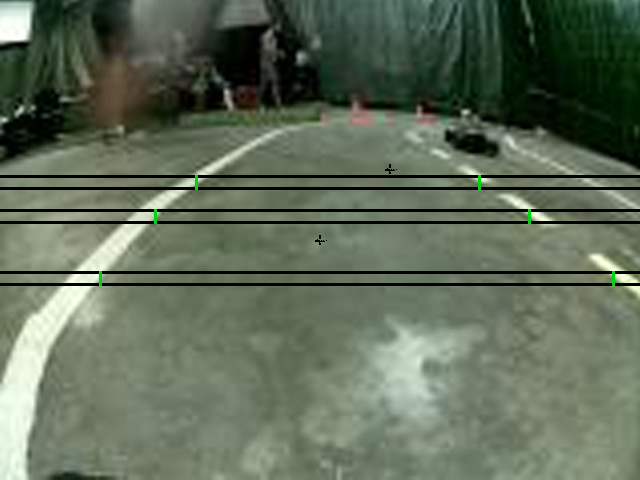
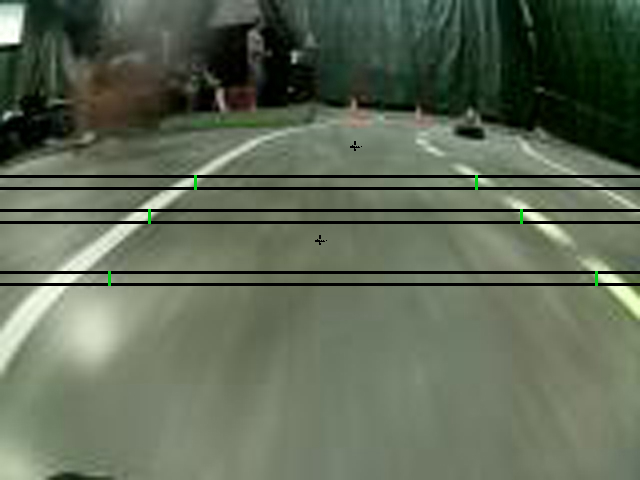
v1.1.3 Added data folder with images

diff --git a/tank-pi/sites/tracktest/routes/wrappers.js b/tank-pi/sites/tracktest/routes/wrappers.js
@@ -4,7 +4,7 @@ var fs =          require('fs');
 var Jimp =        require('jimp');
 var logistics =   require('./logistics');
 var prototypes =  require('./prototypes');
-var serial =      require('./serial')
+var serial =      require('./serial');
 
 /*
 ** These are a series of async.waterfall()—compatible wrappers for the functions
@@ -21,7 +21,31 @@ exports.initFindEdgesGraphic = function(callback) {
 } // initFindEdgesGraphic()
 
 exports.readSnapshot = function(callback) {
-   try {
+  if (config.useDataFolder) {
+    if (logistics.trackDataIndex == undefined || logistics.trackDataIndex == config.dataFolderCount + 1) {
+      logistics.trackDataIndex = 1;
+    }
+    debug('readSnapshot() using data folder');
+    try {
+      path = config.dataFolder + '/' + logistics.trackDataIndex.toString() + '.jpg';
+      debug(path);
+      Jimp.read(path, (errRead, imgOut) => {
+        if (errRead) {console.error('readSnapshot(): ' + errRead); callback(errRead); return;}
+        logistics.sampleX =   0;
+        logistics.imgWidth =  imgOut.bitmap.width;
+        logistics.imgHeight = imgOut.bitmap.height;
+        logistics.sampleY1 =  parseInt(logistics.imgHeight * config.firstY);
+        logistics.sampleY2 =  parseInt(logistics.imgHeight * config.secondY);
+        logistics.sampleY3 =  parseInt(logistics.imgHeight * config.thirdY);
+        callback(null, imgOut);
+        logistics.trackDataIndex++;
+        return;
+      });
+    } catch(err) {console.error('readSnapshot() -> catch(): ' + err); callback(err); return;}
+  } else {
+    // Read it from the static image, as saved into ./public/images/snapshot.jpg
+    debug('If data folder is turned on, we should not see this.');
+    try {
       Jimp.read(config.fileSnapshot, (errRead, imgOut) => {
         if (errRead) {console.error('readSnapshot(): ' + errRead); callback(errRead); return;}
         logistics.sampleX =   0;
@@ -31,8 +55,10 @@ exports.readSnapshot = function(callback) {
         logistics.sampleY2 =  parseInt(logistics.imgHeight * config.secondY);
         logistics.sampleY3 =  parseInt(logistics.imgHeight * config.thirdY);
         callback(null, imgOut);
+        return;
       });
     } catch(err) {console.error('readSnapshot() -> catch(): ' + err); callback(err); return;}
+  }
 } // readSnapshot()
 
 exports.markCenter = function(imgIn, callback) {
@@ -84,10 +110,12 @@ exports.markThirdSample = function(imgIn, callback) {
       debug('---Trend [' + logistics.trend + '] over sanity check [' + config.trendSanityCheck + '], trying again---');
       debug('nLeft: ' + logistics.nLeft1 + '/' + logistics.nLeft2 + '/' + logistics.nLeft3 + ', nRight: ' + logistics.nRight1 + '/' + logistics.nRight2 + '/' + logistics.nRight3);
       logistics.leftGreatSlopeSegment =    parseInt(Math.atan(Math.abs(logistics.nLeft1 - logistics.nLeft3) / parseInt(logistics.imgHeight * (config.firstY - config.thirdY))) * 180 / Math.PI);
-      logistics.rightGreatSlopeSegment =   parseInt(Math.atan(Math.abs(logistics.nRight1 - logistics.nRight3) / parseInt(logistics.imgHeight * (config.firstY - config.thirdY))) * 180 / Math.PI);
+      logistics.rightGreatSlopeSegment =   parseInt(Math.atan(Math.abs(logistics.nRight1 - logistics.nRight3) / parseInt(logistics.imgHeight * (config.thirdY - config.firstY))) * 180 / Math.PI);
       debug('slopeGreatLeft: ' + logistics.leftGreatSlopeSegment + ' and slopeGreatRight: ' + logistics.rightGreatSlopeSegment);
       if (logistics.leftGreatSlopeSegment && logistics.rightGreatSlopeSegment) {
-        logistics.trend = 90 - (Math.abs(logistics.leftGreatSlopeSegment) < Math.abs(logistics.rightGreatSlopeSegment) ? logistics.leftGreatSlopeSegment : logistics.rightGreatSlopeSegment);
+        logistics.trend = 90 - (Math.abs(logistics.leftGreatSlopeSegment) < Math.abs(logistics.rightGreatSlopeSegment) ?
+          ((logistics.rightGreatSlopeSegment < 0) ? parseInt(logistics.leftGreatSlopeSegment / 2) : logistics.leftGreatSlopeSegment) :
+          logistics.rightGreatSlopeSegment);
       } else {
         if (isNaN(logistics.trend)) {
           debug('---Trend [' + logistics.trend + '] == NaN, trying again---');

diff --git a/tank-pi/sites/tracktest/routes/prototypes.js b/tank-pi/sites/tracktest/routes/prototypes.js
@@ -38,9 +38,8 @@ var logistics =   require('./logistics');
   }; // markCenter()
 
   Jimp.prototype.markDirection = function(cb) {
-    // Unsure if this should be (90-trend) or half of this angle. Also unsure of whether or not I should be subtracting this from 90.
-    //debug('Trend: ' + parseInt((90 - logistics.trend) / 2) + ' degrees right of centerline');
     // Definitively: The logistics.trend value is the degree from the centerline, as measured at the top.
+    if (logistics.lastDirection == undefined) logistics.lastDirection = logistics.direction;
     try {
       Jimp.read('./public/images/center-mark-mask.jpg', (errRead, imgMask) => {
         if (errRead) console.error('Jimp.read(): ' + errRead);
@@ -49,6 +48,15 @@ var logistics =   require('./logistics');
         var midY =            parseInt((this.bitmap.height / 2) + (-1 * config.trendLineLength * Math.sin(radiansTrend)));
         logistics.direction = 90 - logistics.trend;
         debug('direction: ' + logistics.direction + ' degrees from centerline');
+        if (logistics.direction - logistics.lastDirection > 20) {
+          debug('Wildness detected in steering, titrating that last command...');
+          var diff =      logistics.direction - logistics.lastDirection;
+          var leftTurn =  (diff < 0) || (logistics.direction < 0 && logistics.lastDirection > 0);
+          logistics.direction = (leftTurn) ?
+            parseInt(logistics.direction * 0.75) :
+            parseInt(logistics.direction * 1.25);
+            debug('direction adjusted to: ' + logistics.direction + ' degrees from centerline');
+          }
         this.mask(imgMask, midX - parseInt(imgMask.bitmap.width / 2), midY - parseInt(imgMask.bitmap.height / 2), function(errMask, imgMasked) {
           if (errMask) console.error('this.mask(): ' + errMask);
           cb(null, imgMasked);
@@ -79,10 +87,11 @@ var logistics =   require('./logistics');
                 break;
               }
             }
-            if (nLeft < 30) {
+            if (nLeft < config.centerlineWidth) {
               debug('Left: Trying again since we found centerline');
+              // nLeft = parseInt(this.bitmap.width / 2); // new
               // Try again since it looks like we found the centerline instead
-              for (var i=parseInt(this.bitmap.width / 2) - 40; i>0; i--) {
+              for (var i=parseInt(this.bitmap.width / 2) - config.centerlineWidth; i>0; i--) {
                 colorTest = imgMasked.getPixelColor(i, y).toString(16).substr(0,6);
                 diff = colorDiff(colorTest, config.colorTarget);
                 if (diff < config.colorThreshold) {
@@ -102,10 +111,11 @@ var logistics =   require('./logistics');
                 break;
               }
             }
-            if ((nRight - parseInt(this.bitmap.width / 2)) < 30) {
+            if ((nRight - parseInt(this.bitmap.width / 2)) < config.centerlineWidth) {
               debug('Right: Trying again since we found centerline');
+              // nLeft = this.bitmap.width - 1; // new
               // Try again since it looks like we found the centerline instead
-              for (var i=parseInt(this.bitmap.width / 2) + 40; i<this.bitmap.width; i++) {
+              for (var i=parseInt(this.bitmap.width / 2) + config.centerlineWidth; i<this.bitmap.width; i++) {
                 colorTest = imgMasked.getPixelColor(i, y).toString(16).substr(0,6);
                 diff = colorDiff(colorTest, config.colorTarget);
                 if (diff < config.colorThreshold) {

diff --git a/tank-pi/sites/tracktest/routes/config.js b/tank-pi/sites/tracktest/routes/config.js
@@ -5,6 +5,9 @@ exports.tankHostname =          'tank.local';
 exports.fileNoImage =           './public/images/no-image.jpg';
 exports.fileFindEdges =         './public/images/find-edges.jpg';
 exports.fileSnapshot =          './public/images/snapshot.jpg';
+exports.useDataFolder =         true;
+exports.dataFolder =            './public/images/data';
+exports.dataFolderCount =       9;        // Number of files in the dataFolder directory
 exports.colorTarget =           'dce6ce'; // color of the lane marker masking tape, as seen by the target webcam at the sampled lighting
 exports.colorThreshold =        75;       // a per-primary-color difference
 exports.trendLineLength =       100;      // long enough to be seen over the third horizontal sample line
@@ -12,6 +15,7 @@ exports.trendSanityCheck =      48;       // degrees from centerline
 exports.firstY =                0.58;     // percent of height, from top of graphic
 exports.secondY =               0.45;     // percent of height, from top of graphic
 exports.thirdY =                0.38;     // percent of height, from top of graphic
+exports.centerlineWidth =       40;       // width of centerline to offset in recalculations, if seen
 exports.defaultStraightSpeed =  80;       // 50 is approximately the minimum
 exports.defaultCurveSpeed =     80;       // 80 is approximately the practical minimum
 exports.reloadSeconds =         0;        // set to 3 for a race or 5 for training purposes with a slow default speed

diff --git a/tank-pi/sites/tracktest/routes/logistics.js b/tank-pi/sites/tracktest/routes/logistics.js
@@ -20,3 +20,5 @@ exports.trend =                   undefined;
 exports.direction =               undefined;
 exports.leftGreatSlopeSegment =   undefined;
 exports.rightGreatSlopeSegment =  undefined;
+exports.lastDirection =           undefined;
+exports.trackDataIndex =          undefined;
